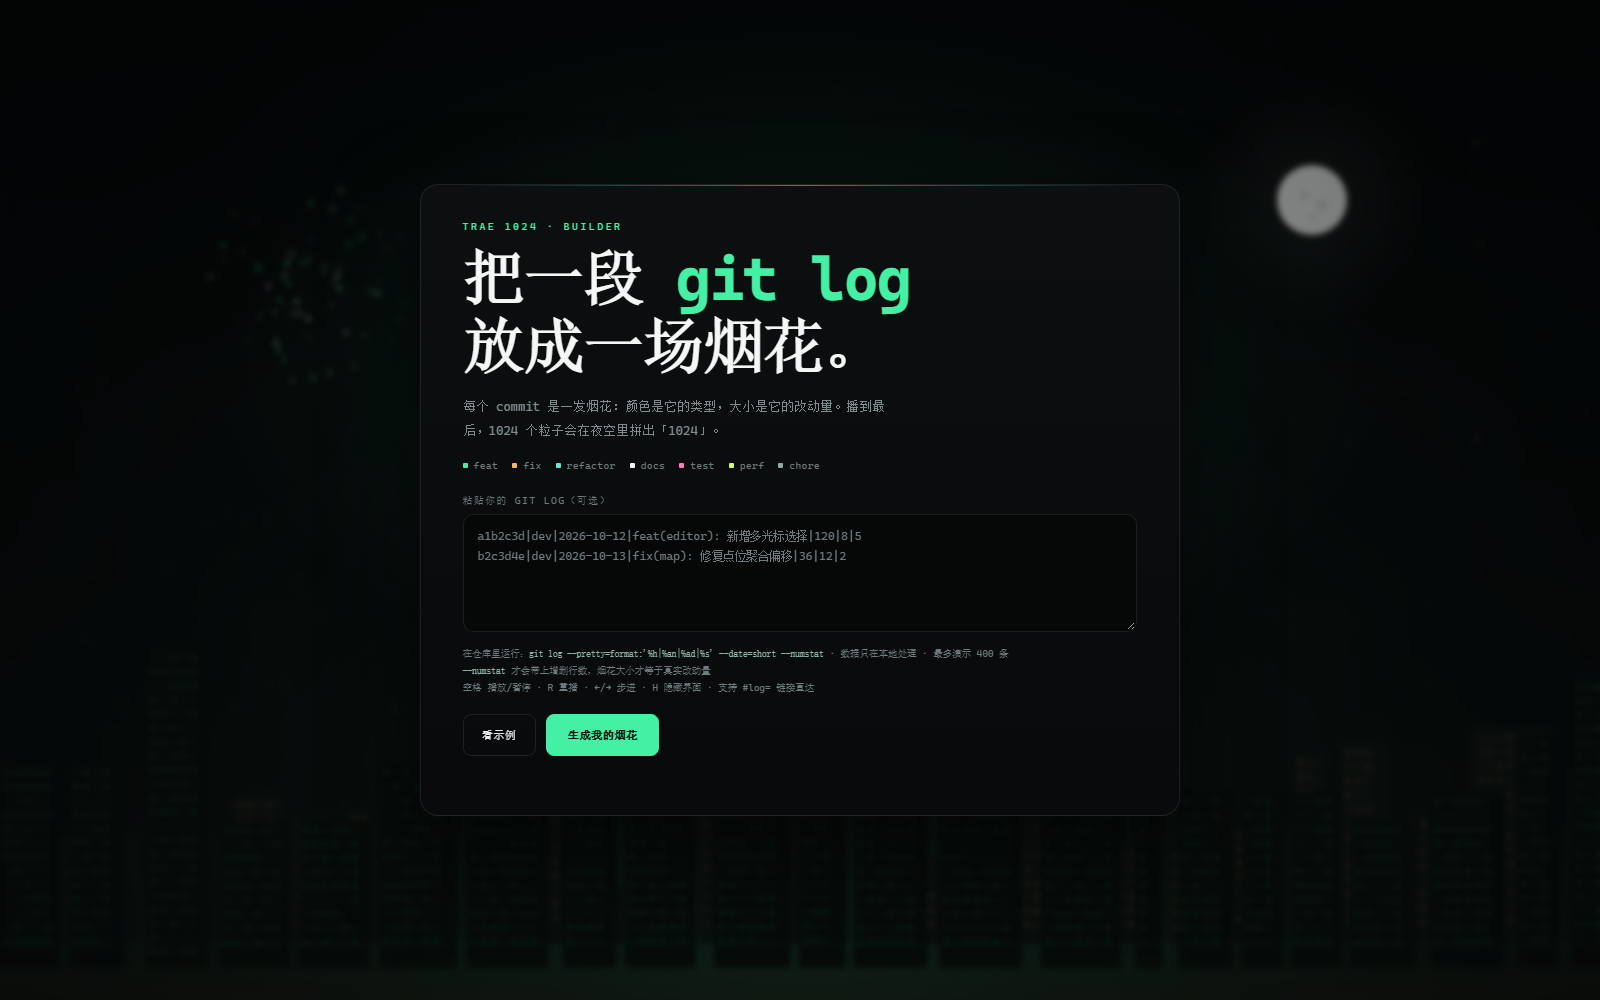
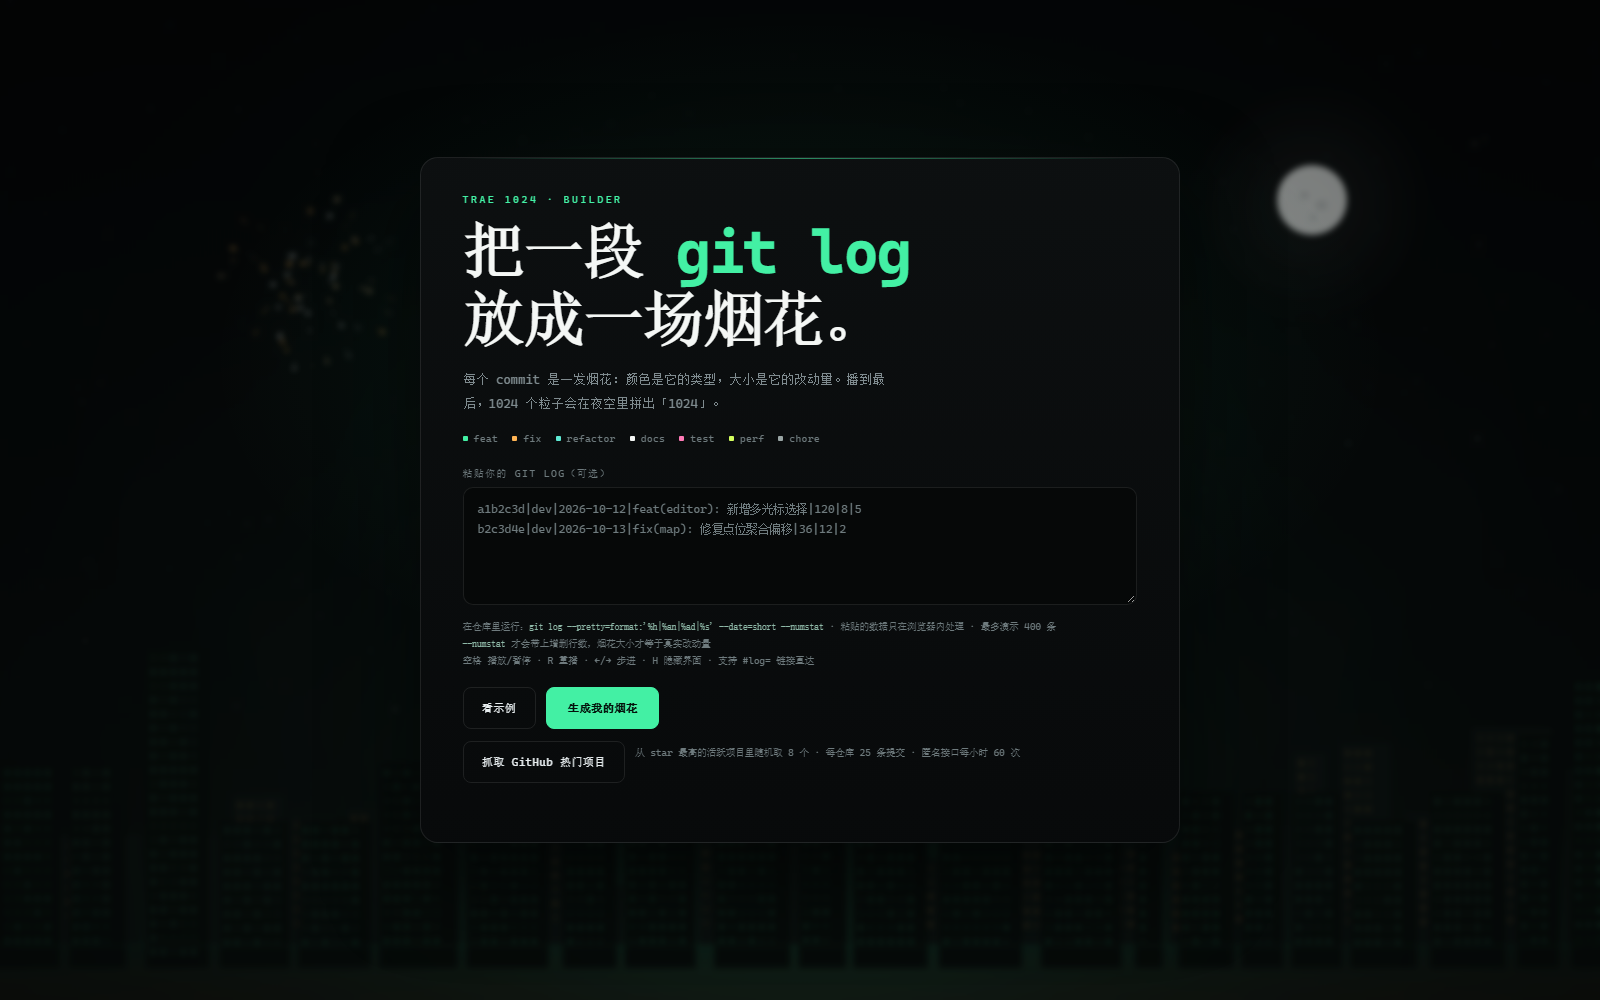
Add one-click GitHub trending commit fetch and refresh landing screenshot

Changed region(s): [[0.2812, 0.217, 0.5938, 0.558], [0.2812, 0.62, 0.6562, 0.775], [0.5312, 0.744, 0.625, 0.775]]

diff --git a/index.html b/index.html
@@ -4,7 +4,7 @@
 <meta charset="utf-8" />
 <meta name="viewport" content="width=device-width, initial-scale=1" />
 <title>Commit 烟花 · 1024</title>
-<meta name="description" content="把一段 git log 放成一场烟花：每个 commit 是一发烟花，颜色是它的类型，大小是真实改动量；城市按提交日期长起来，最后 1024 个粒子从所有窗户升空拼出「1024」。单文件 HTML，数据只在本地处理。" />
+<meta name="description" content="把一段 git log 放成一场烟花：每个 commit 是一发烟花，颜色是它的类型，大小是真实改动量；城市按提交日期长起来，最后 1024 个粒子从所有窗户升空拼出「1024」。单文件 HTML；粘贴的日志只在浏览器内处理，也可一键抓取 GitHub 热门项目的公开提交。" />
 <meta property="og:type" content="website" />
 <meta property="og:title" content="Commit 烟花 · 1024" />
 <meta property="og:description" content="把一段 git log 放成一场烟花。每个 commit 是一发烟花，最后 1024 个粒子从整座城市的窗户升空，拼出「1024」。" />
@@ -347,6 +347,21 @@
     line-height: 1.6;
     color: #ff8a8a;
   }
+  .actions.alt {
+    margin-top: 12px;
+    align-items: flex-start;
+    flex-wrap: wrap;
+  }
+  .gh-status {
+    flex: 1 1 260px;
+    min-width: 0;
+    margin-top: 4px;
+    font-size: clamp(9.5px, .4vw, 12.5px);
+    line-height: 1.75;
+    color: var(--dim);
+    word-break: break-word;
+  }
+  .btn:disabled { opacity: .55; cursor: progress; }
   .commit-label {
     position: absolute;
     transform: translate(-50%, -50%);
@@ -523,10 +538,14 @@
       </div>
       <label class="field-label" for="log">粘贴你的 git log（可选）</label>
       <textarea id="log" spellcheck="false" placeholder="a1b2c3d|dev|2026-10-12|feat(editor): 新增多光标选择|120|8|5&#10;b2c3d4e|dev|2026-10-13|fix(map): 修复点位聚合偏移|36|12|2"></textarea>
-      <div class="hint">在仓库里运行：<code>git log --pretty=format:'%h|%an|%ad|%s' --date=short --numstat</code> · 数据只在本地处理 · 最多演示 400 条<br><code>--numstat</code> 才会带上增删行数，烟花大小才等于真实改动量<br>空格 播放/暂停 · R 重播 · ←/→ 步进 · H 隐藏界面 · 支持 #log= 链接直达</div>
+      <div class="hint">在仓库里运行：<code>git log --pretty=format:'%h|%an|%ad|%s' --date=short --numstat</code> · 粘贴的数据只在浏览器内处理 · 最多演示 400 条<br><code>--numstat</code> 才会带上增删行数，烟花大小才等于真实改动量<br>空格 播放/暂停 · R 重播 · ←/→ 步进 · H 隐藏界面 · 支持 #log= 链接直达</div>
       <div class="actions">
         <button id="btn-demo" class="btn ghost">看示例</button>
         <button id="btn-start" class="btn primary">生成我的烟花</button>
+      </div>
+      <div class="actions alt">
+        <button id="btn-github" class="btn ghost">抓取 GitHub 热门项目</button>
+        <span id="gh-status" class="gh-status">从 star 最高的活跃项目里随机取 8 个 · 每仓库 25 条提交 · 匿名接口每小时 60 次</span>
       </div>
       <div id="intro-error" class="error" role="alert"></div>
     </div>
@@ -2275,8 +2294,95 @@
     if (fallback) showToast("未检测到 git log · 正在演示示例数据");
   }
 
+  // ---- GitHub 热门项目抓取：仅点击时触发，走公开匿名接口 ----
+  const GH_API = "https://api.github.com";
+  const GH_SAMPLE = 8;      // 每次参与混合的仓库数（1 次 search + 8 次 commits = 9 次请求）
+  const GH_PER_REPO = 25;   // 每仓库取多少条提交，8×25=200，远低于 400 上限
+  let ghBusy = false;
+
+  function ghGet(path, signal) {
+    return fetch(GH_API + path, {
+      headers: { Accept: "application/vnd.github+json", "X-GitHub-Api-Version": "2022-11-28" },
+      signal: signal
+    }).then(function (res) {
+      if (res.ok) return res.json();
+      if (res.status === 403 || res.status === 429) {
+        const remain = res.headers.get("x-ratelimit-remaining");
+        throw new Error(remain === "0" ? "接口限流（匿名每小时 60 次），请稍后再试" : "请求被拒绝（" + res.status + "）");
+      }
+      throw new Error("接口返回 " + res.status);
+    });
+  }
+
+  // 单条提交 → parseLog 的 4 列格式；丢弃 merge 提交、空主题和无日期提交
+  function commitLine(c) {
+    const meta = c.commit || {};
+    const subject = String(meta.message || "").split("\n")[0].trim();
+    if (!subject || /^merge\b/i.test(subject)) return "";
+    const date = String((meta.author && meta.author.date) || (meta.committer && meta.committer.date) || "").slice(0, 10);
+    if (!/^\d{4}-\d{2}-\d{2}$/.test(date)) return "";
+    const author = String((meta.author && meta.author.name) || "dev").replace(/\|/g, "/");
+    return (c.sha || "").slice(0, 7) + "|" + author + "|" + date + "|" + subject;
+  }
+
+  function fetchHotCommits() {
+    if (ghBusy) return;
+    const btn = $("#btn-github");
+    const status = $("#gh-status");
+    const idle = "从 star 最高的活跃项目里随机取 8 个 · 每仓库 25 条提交 · 匿名接口每小时 60 次";
+    ghBusy = true;
+    btn.disabled = true;
+    btn.textContent = "抓取中…";
+    showError("");
+    status.textContent = "正在查询 star 最高的活跃仓库…";
+    const ctrl = new AbortController();
+    const timer = window.setTimeout(function () { ctrl.abort(); }, 15000);
+    const since = new Date(Date.now() - 30 * 86400000).toISOString().slice(0, 10);
+
+    ghGet("/search/repositories?q=stars:>50000+pushed:>" + since + "+archived:false&sort=stars&order=desc&per_page=40", ctrl.signal)
+      .then(function (search) {
+        const pool = (search.items || []).filter(function (r) { return !r.fork && r.full_name; });
+        if (!pool.length) throw new Error("没有找到符合条件的仓库");
+        // top40 里随机抽 8 个：每次点击看到不同的项目组合
+        for (let i = pool.length - 1; i > 0; i--) {
+          const j = Math.floor(Math.random() * (i + 1));
+          const t = pool[i]; pool[i] = pool[j]; pool[j] = t;
+        }
+        const repos = pool.slice(0, GH_SAMPLE);
+        status.textContent = "正在读取 " + repos.map(function (r) { return r.full_name; }).join(" · ") + " 的提交…";
+        return Promise.all(repos.map(function (r) {
+          return ghGet("/repos/" + r.full_name + "/commits?per_page=" + GH_PER_REPO, ctrl.signal)
+            .catch(function (e) { if (e && e.name === "AbortError") throw e; return []; });
+        })).then(function (lists) { return { repos: repos, lists: lists }; });
+      })
+      .then(function (got) {
+        const lines = [];
+        got.lists.forEach(function (list) {
+          list.forEach(function (c) { const line = commitLine(c); if (line) lines.push(line); });
+        });
+        if (!lines.length) throw new Error("抓取到的提交为空，请稍后再试");
+        const text = lines.slice(-400).join("\n");
+        $("#log").value = text;      // 回填输入框：可编辑、可复现，换一段后不清空
+        status.textContent = "已从 " + got.repos.length + " 个仓库抓取 " + lines.length + " 条提交 · 改动量按提交哈希估算";
+        start(parseLog(text));
+        showToast("GitHub 热门项目 · " + lines.length + " 个提交");
+      })
+      .catch(function (err) {
+        const msg = err && err.name === "AbortError" ? "抓取超时，请检查网络后重试" : (err && err.message) || "抓取失败";
+        showError("抓取失败：" + msg);
+        status.textContent = idle;
+      })
+      .finally(function () {
+        window.clearTimeout(timer);
+        ghBusy = false;
+        btn.disabled = false;
+        btn.textContent = "抓取 GitHub 热门项目";
+      });
+  }
+
   $("#btn-demo").addEventListener("click", useDemo);
   $("#btn-start").addEventListener("click", startFromInput);
+  $("#btn-github").addEventListener("click", fetchHotCommits);
   $("#log").addEventListener("input", function () { showError(""); });
   $("#btn-play").addEventListener("click", togglePlay);
   $("#btn-sound").addEventListener("click", toggleSound);
